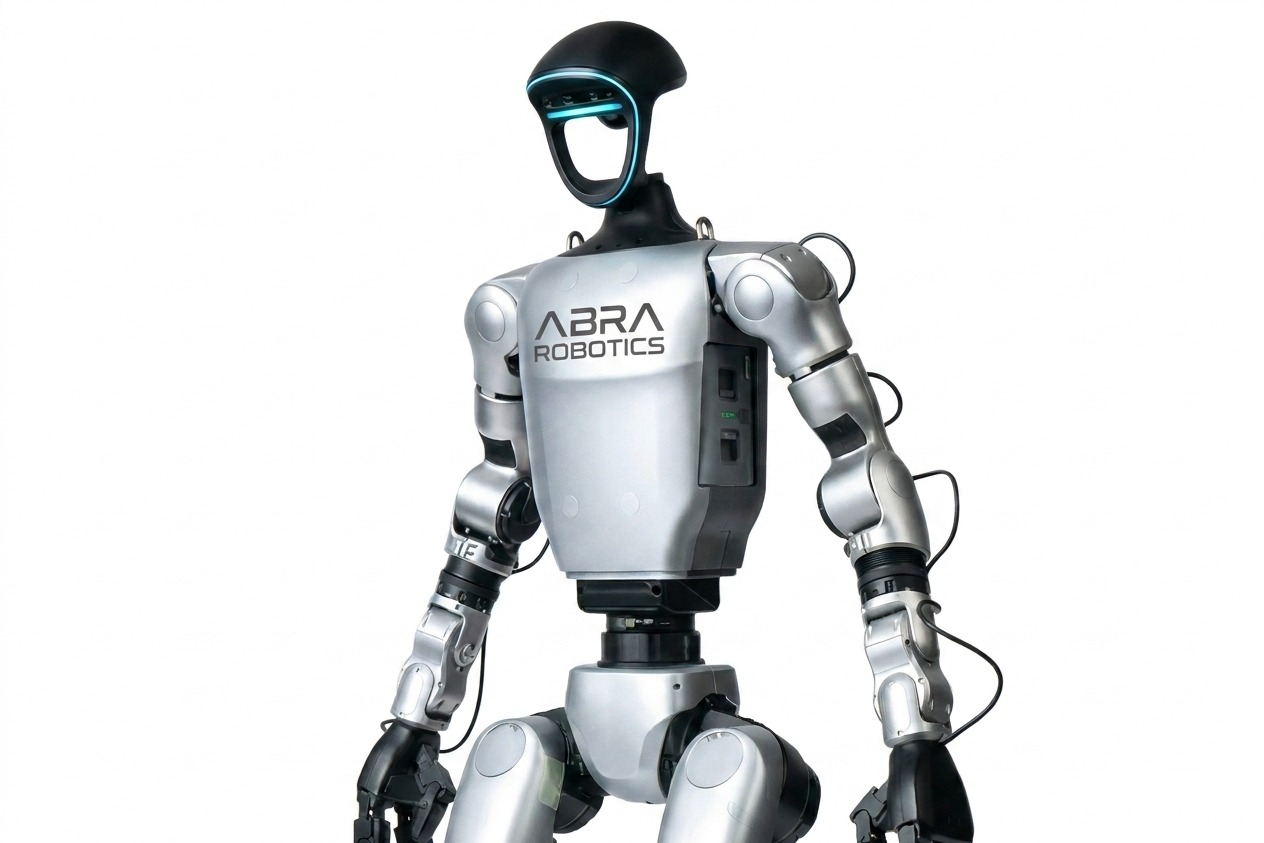
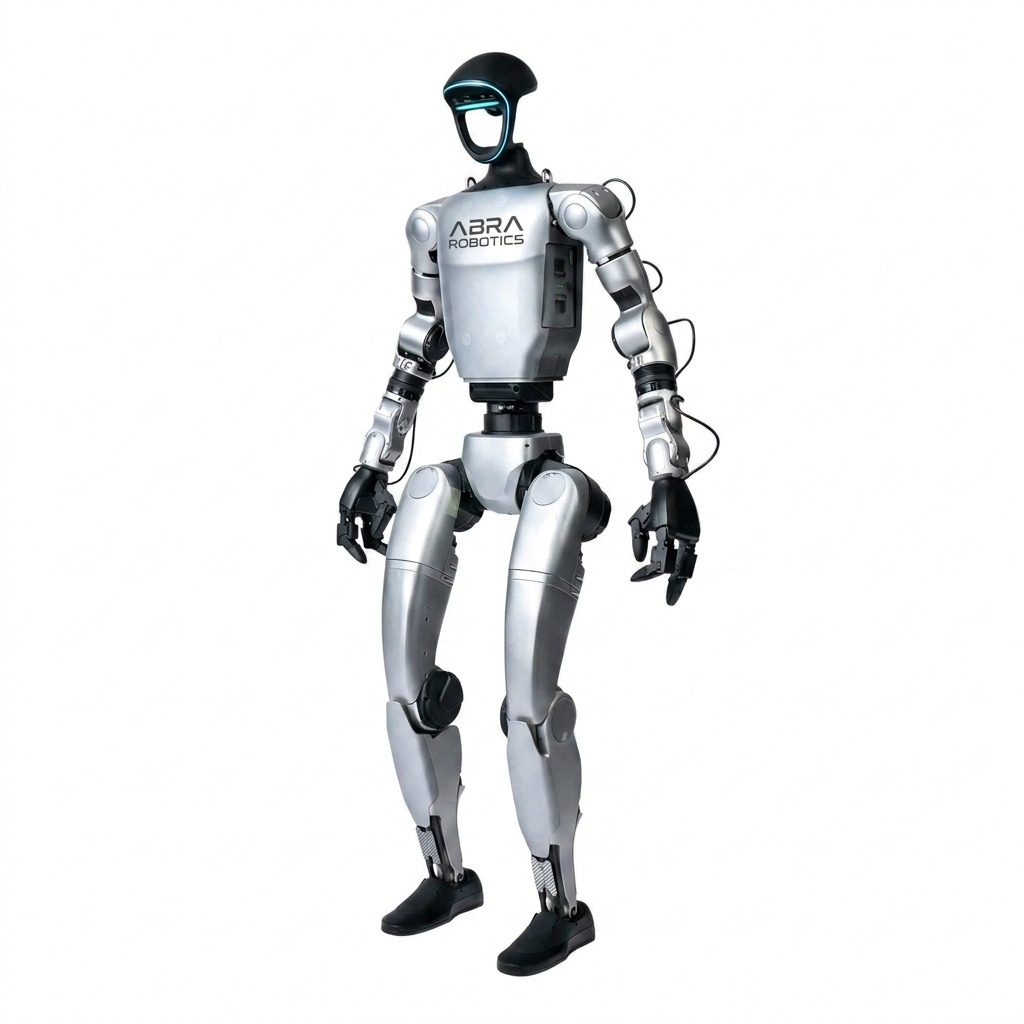
Umanoidi: g1-u3 e g1-u5 rigenerate a figura intera (aspect 1:1)

Changed region(s): [[0.2812, 0.0, 0.7812, 1.0], [0.7812, 0.7711, 0.8125, 0.8327]]

diff --git a/prodotti/_gemini_logo_swap.py b/prodotti/_gemini_logo_swap.py
@@ -11,6 +11,7 @@ import os, sys
 from io import BytesIO
 from PIL import Image
 from google import genai
+from google.genai import types
 
 MODEL = os.environ.get("GEMINI_MODEL", "gemini-2.5-flash-image")
 BASE = os.path.dirname(os.path.dirname(os.path.abspath(__file__)))
@@ -38,8 +39,10 @@ PROMPT = (
     "CRITICAL: keep the output IDENTICAL to the input in every other way. Same exact "
     "framing, same composition, same full-body view, same zoom level, same aspect ratio "
     "and same image dimensions. Do NOT crop, do NOT zoom in, do NOT recompose or change "
-    "the camera. Same robot, same pose, same background, same colors. Only the logo "
-    "changes. If no 'ROBOSTORE' logo is visible, return the image unchanged."
+    "the camera. The ENTIRE robot must remain visible from head to feet (full body), "
+    "with empty margin all around it exactly like the input; never cut off legs, feet or "
+    "head. Same robot, same pose, same background, same colors. Only the logo changes. "
+    "If no 'ROBOSTORE' logo is visible, return the image unchanged."
 )
 
 def main():
@@ -47,6 +50,12 @@ def main():
         sys.exit("ERRORE: GEMINI_API_KEY non impostata nell'ambiente.")
     client = genai.Client(api_key=os.environ["GEMINI_API_KEY"])
     logo = Image.open(LOGO)
+
+    # Forza l'aspect ratio dell'output (es. GEMINI_ASPECT=1:1) per evitare crop/reframe.
+    cfg = None
+    aspect = os.environ.get("GEMINI_ASPECT")
+    if aspect:
+        cfg = types.GenerateContentConfig(image_config=types.ImageConfig(aspect_ratio=aspect))
 
     # Se passo dei path come argomenti, lavoro solo su quelli (utile per il test).
     targets = sys.argv[1:] if len(sys.argv) > 1 else IMAGES
@@ -58,7 +67,7 @@ def main():
             print("  ! manca", rel); continue
         img = Image.open(src)
         try:
-            resp = client.models.generate_content(model=MODEL, contents=[PROMPT, img, logo])
+            resp = client.models.generate_content(model=MODEL, contents=[PROMPT, img, logo], config=cfg)
         except Exception as e:
             print(f"  ERR {rel}: {e}"); continue
 
